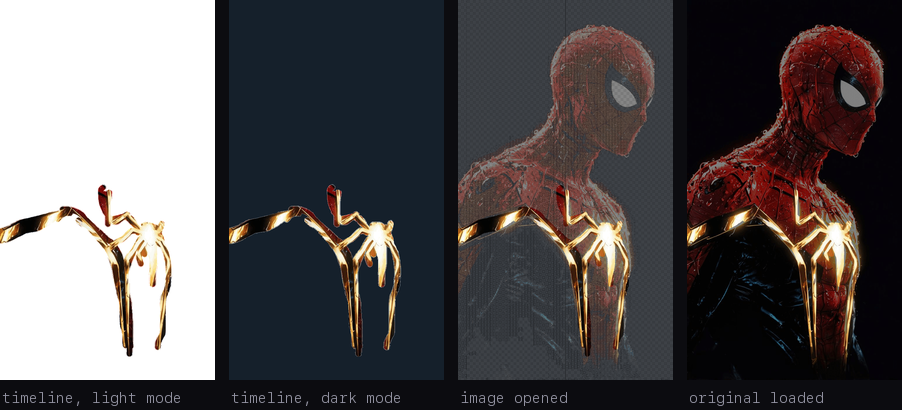
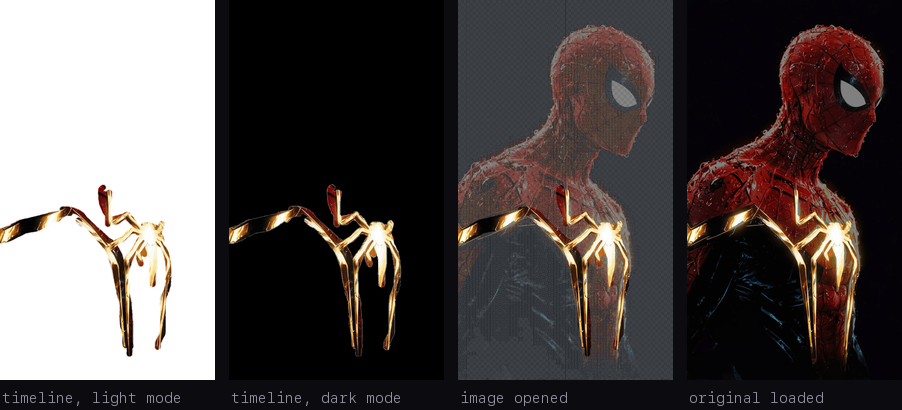
.

Changed region(s): [[0.2483, 0.0, 0.4967, 0.9366]]

diff --git a/src/components/Studio.tsx b/src/components/Studio.tsx
@@ -24,7 +24,7 @@ import { Warnings } from "./Warnings"
 const PREVIEW_LONG = 720
 
 const FEED_LIGHT: [number, number, number] = [255, 255, 255]
-const FEED_DARK: [number, number, number] = [21, 32, 43]
+const FEED_DARK: [number, number, number] = [0, 0, 0]
 const VIEWER_BG: [number, number, number] = [0, 0, 0]
 
 function drawToRgba(image: HTMLImageElement, longSide: number): Rgba {

diff --git a/research/figures.py b/research/figures.py
@@ -17,7 +17,6 @@ THRESH = 0.575
 MEDIUM, LARGE = 1200, 2048
 
 WHITE = (255, 255, 255)
-FEED_DARK = (21, 32, 43)
 BLACK = (0, 0, 0)
 
 
@@ -95,12 +94,51 @@ large = rgba("research/variants/large.png")
 strip(
     [
         panel(over(medium, WHITE)),
-        panel(over(medium, FEED_DARK)),
+        panel(over(medium, BLACK)),
         panel(over(large, BLACK)),
         panel(over(orig, BLACK)),
     ],
     ["timeline, light mode", "timeline, dark mode", "image opened", "original loaded"],
     "public/figures/states.png",
+)
+
+
+def before_after(left, right, labels, note, path, arrow=112, gap=8, pad=30, bg=(12, 12, 16)):
+    """Two states side by side with a labelled arrow between them."""
+    try:
+        font = ImageFont.truetype("/System/Library/Fonts/SFNSMono.ttf", 15)
+    except OSError:
+        font = ImageFont.load_default()
+
+    h = max(left.height, right.height)
+    sheet = Image.new("RGB", (left.width + arrow + right.width + pad * 2, h + pad + 30), bg)
+    d = ImageDraw.Draw(sheet)
+
+    for im, x in ((left, pad), (right, pad + left.width + arrow)):
+        sheet.paste(im, (x, 0))
+        d.rectangle([x, 0, x + im.width - 1, im.height - 1], outline=(58, 58, 70))
+
+    y = h // 2
+    x0 = pad + left.width + gap
+    x1 = pad + left.width + arrow - gap
+    d.line([x0, y, x1 - 12, y], fill=(150, 150, 165), width=2)
+    d.polygon([(x1 - 12, y - 6), (x1 - 12, y + 6), (x1, y)], fill=(150, 150, 165))
+    w = d.textlength(note, font=font)
+    d.text(((x0 + x1 - w) / 2, y - 30), note, fill=(150, 150, 165), font=font)
+
+    for x, label in ((pad, labels[0]), (pad + left.width + arrow, labels[1])):
+        d.text((x + 2, h + 8), label, fill=(150, 150, 165), font=font)
+
+    sheet.save(path)
+    print("wrote", path, sheet.size)
+
+
+before_after(
+    panel(over(medium, BLACK), height=440),
+    panel(over(large, BLACK), height=440),
+    ["what the timeline shows", "what you get on tap"],
+    "tap",
+    "public/figures/effect.png",
 )
 
 

diff --git a/content/how-it-works.md b/content/how-it-works.md
@@ -4,6 +4,8 @@ There is a format going around on X right now: an image that looks like one thin
 timeline and turns into something else the moment you open it or press and hold. A glowing
 emblem alone on an empty field becomes a full illustration.
 
+![The same post before and after a tap](../public/figures/effect.png)
+
 I wanted to make these, so I went looking for an explanation, and every write-up I could
 find described a different technique than the one these posts actually use. So I took one of
 the images apart myself: zoomed in until I noticed something none of the articles mentioned,
@@ -26,9 +28,9 @@ seen on black = colour × α + black × (1 − α)
 
 Two equations, two unknowns. Solve them and each pixel's colour and transparency fall out.
 
-This works, but only on those two backgrounds. Change either one and the arithmetic breaks.
-Dark mode is a third background: not black, just dark grey. On it the file shows something
-close to the hidden picture — in the timeline, where the cover was supposed to be. Nothing is
+This works, but only if the timeline is white. In dark mode it is black — the very background
+the hidden picture was solved for — so the timeline shows the hidden picture instead of the
+cover, and the viewer shows the same thing again. Nothing is
 left to reveal. The people who documented the technique say so directly — the reference
 implementation for it is [labelled ダークモード不可](https://github.com/Kazuhito00/DualImagePNG-for-X),
 dark mode not supported.
@@ -116,7 +118,7 @@ from the timeline in both themes, back on tap. That encoder is the tool linked a
 ## Why this one survives dark mode
 
 Because the region is _entirely_ transparent rather than partly, nothing gets blended. It shows
-whatever is behind it — white in light mode, dark grey in dark mode, indistinguishable from the
+whatever is behind it — white in light mode, black in dark mode, indistinguishable from the
 background either way. The background stops being part of the mechanism, which is the practical
 difference from the older technique.
 

diff --git a/content/how-it-works-simple.md b/content/how-it-works-simple.md
@@ -4,6 +4,8 @@ There is a format going around on X right now. In the timeline you see one pictu
 it, or press and hold, and it turns into a different one. A glowing emblem alone on an empty
 field becomes a full illustration.
 
+![The same post before and after a tap](../public/figures/effect.png)
+
 I wanted to make these. Every explanation I could find described a different technique than
 the one these posts use, so I took one of the images apart myself.
 
@@ -98,8 +100,8 @@ linked above.
 ## Why it works in dark mode
 
 Because the region ends up completely transparent rather than partly, nothing gets mixed. It
-simply shows whatever is behind it — white in light mode, dark grey in dark mode, the same as
-the background around it either way. The background is not part of the mechanism at all.
+simply shows whatever is behind it — white in light mode, black in dark mode, the same as the
+background around it either way. The background is not part of the mechanism at all.
 
 Here is the transparency itself, magnified, with transparent pixels marked in magenta — the
 original, the 2048px preview and the 1200px preview.
@@ -126,9 +128,9 @@ seen on black = colour × α + black × (1 − α)
 
 Two equations, two unknowns, and each pixel's colour and transparency fall out.
 
-This works, but only on those two backgrounds. Dark mode is a third one: not black, just dark
-grey. On it the file shows something close to the hidden picture, right there in the timeline
-where the cover was supposed to be. Nothing is left to reveal. The people who documented the
+This works, but only if the timeline is white. In dark mode it is black — the very background
+the hidden picture was solved for — so the timeline shows that hidden picture instead of the
+cover, and the viewer shows the same thing again. Nothing is left to reveal. The people who documented the
 technique say so directly — the reference implementation for it is
 [labelled ダークモード不可](https://github.com/Kazuhito00/DualImagePNG-for-X), dark mode not
 supported.
